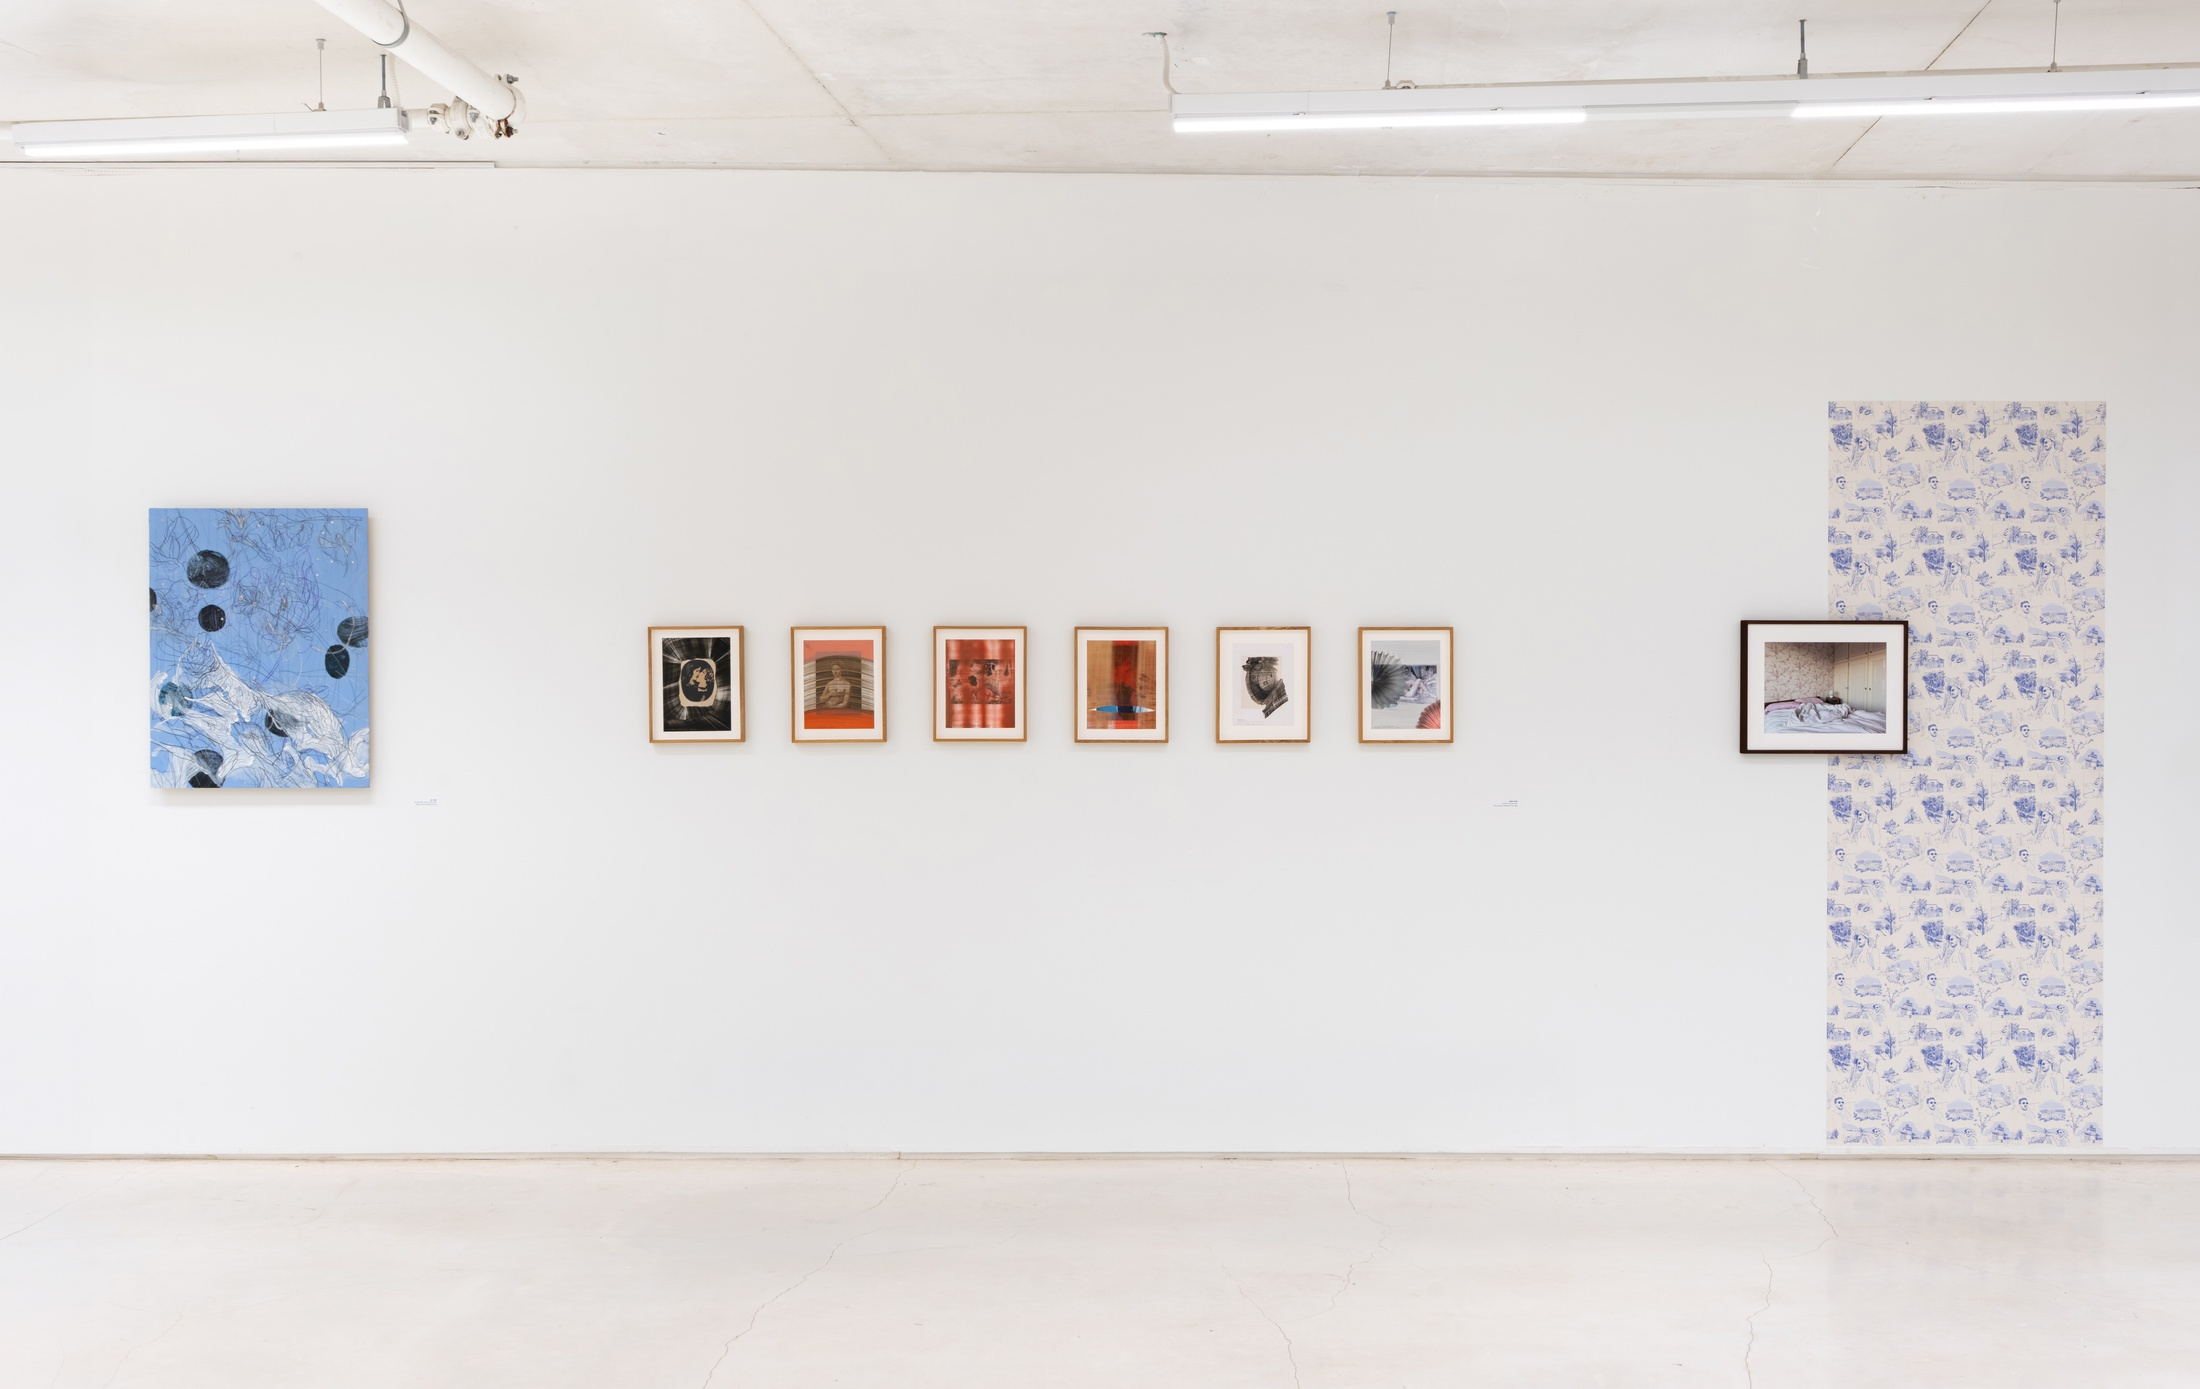
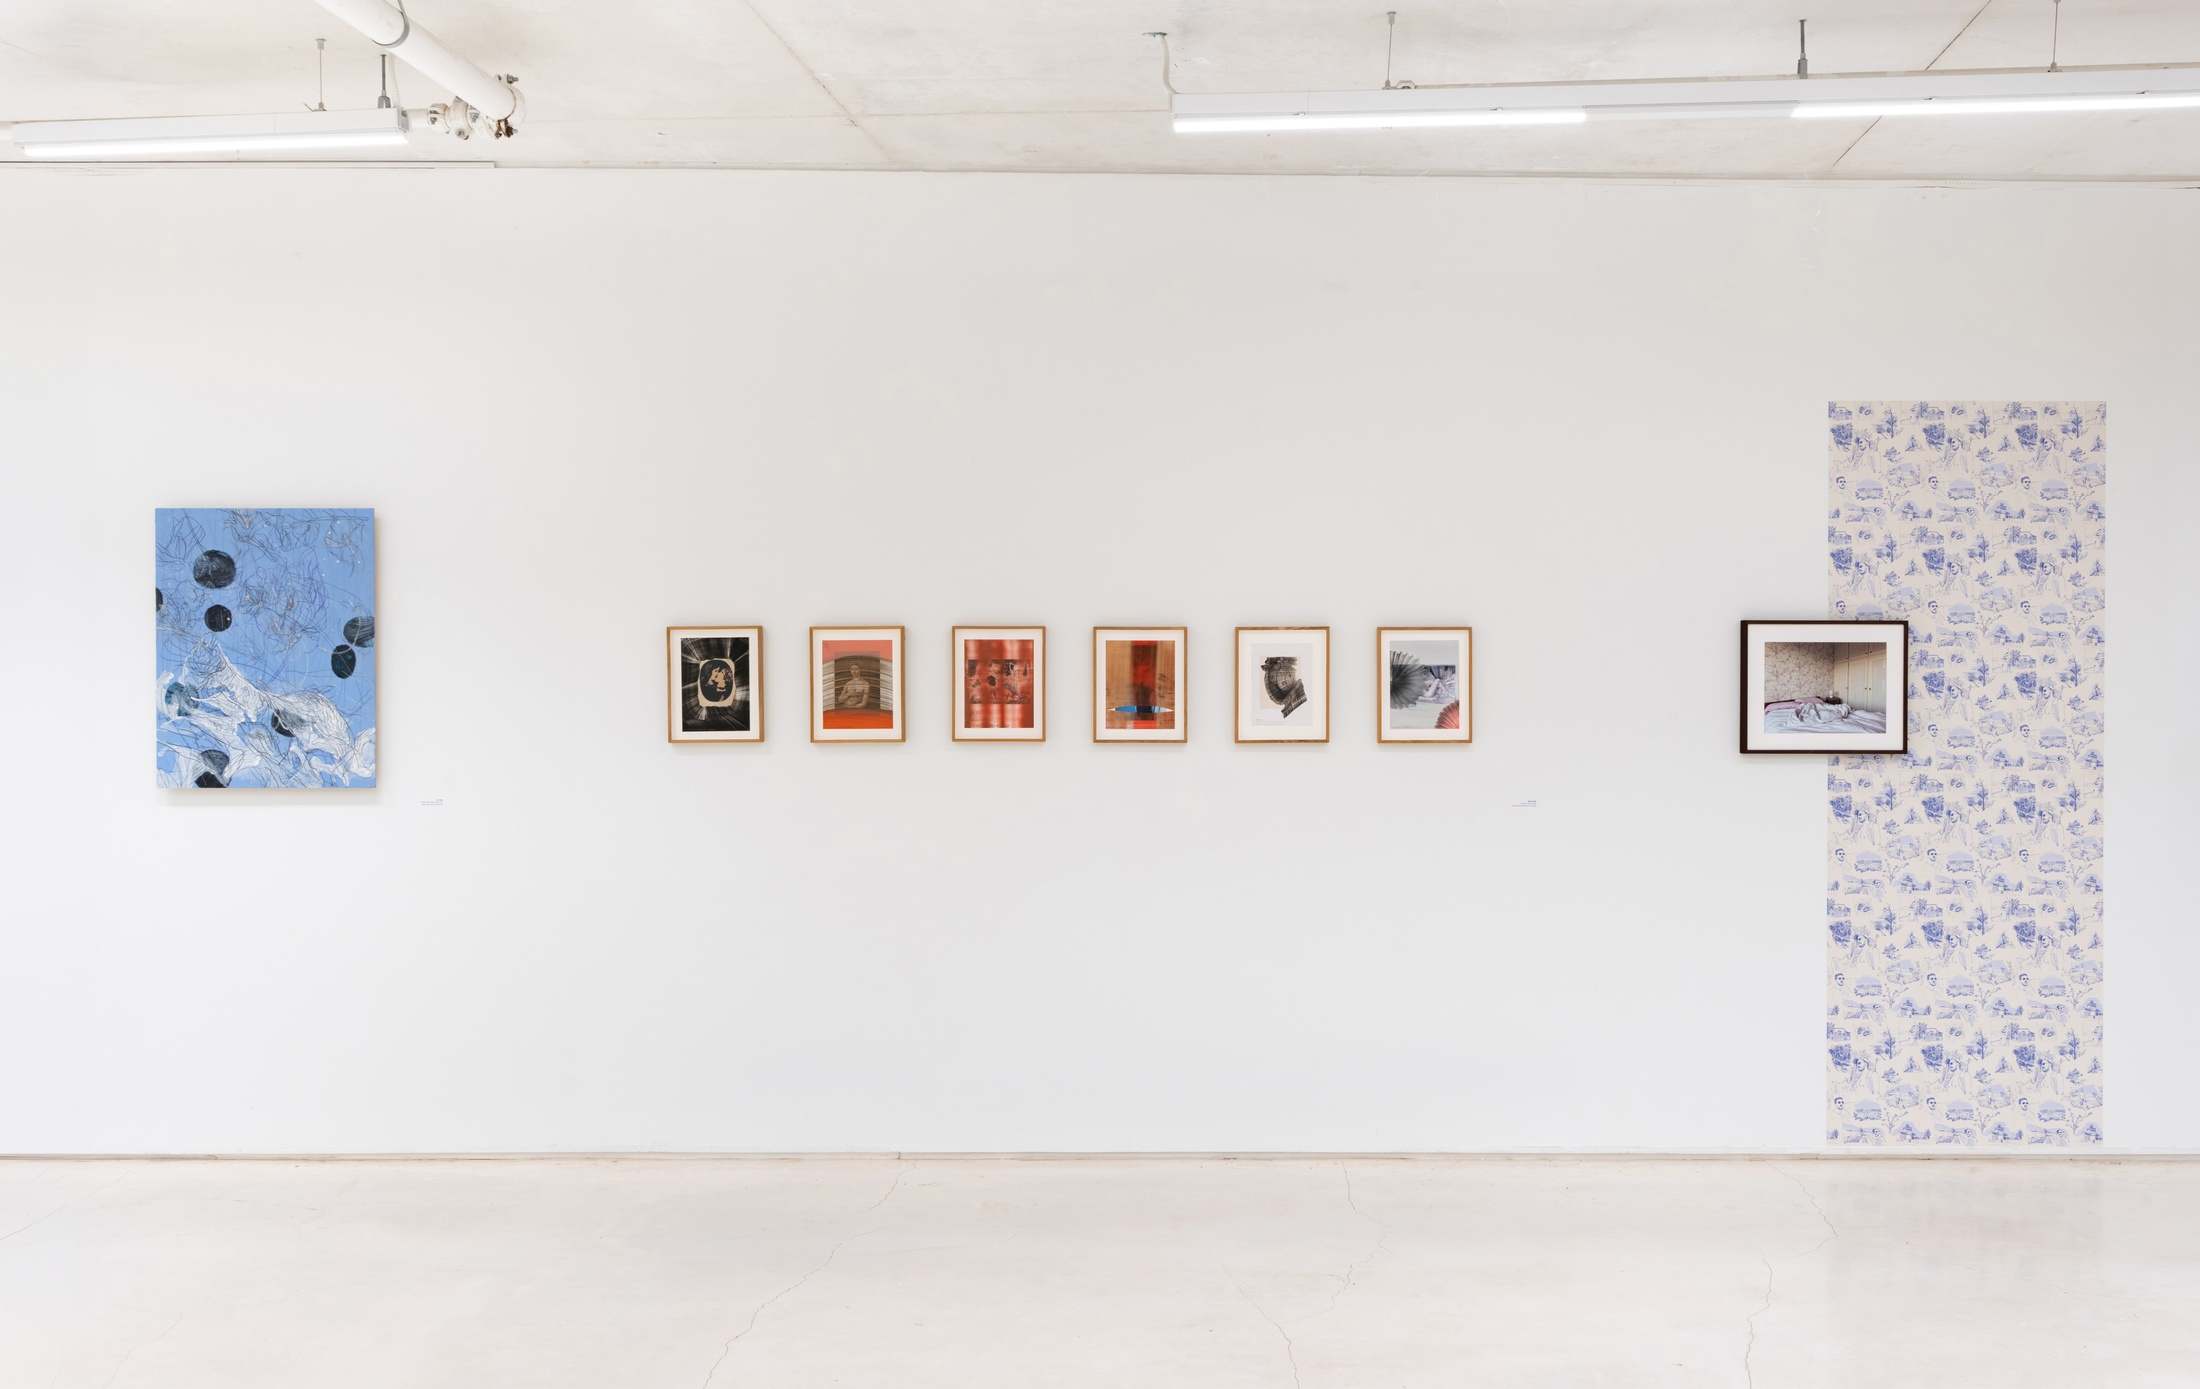
Remove IMG_0111 from Food Photography; replace two Deep Blue images; add 10 photos to MALE figures and 5 to FEMALE figures

Changed region(s): [[0.2782, 0.4334, 0.68, 0.5572], [0.0618, 0.3715, 0.1855, 0.5882]]

diff --git a/src/content/photo-projects/male-figures.md b/src/content/photo-projects/male-figures.md
@@ -40,3 +40,23 @@ order: -2
 ![](../../assets/photo-projects/male-figures/male-figures-17.jpg)
 
 ![](../../assets/photo-projects/male-figures/male-figures-18.jpg)
+
+![](../../assets/photo-projects/male-figures/male-figures-19.jpg)
+
+![](../../assets/photo-projects/male-figures/male-figures-20.jpg)
+
+![](../../assets/photo-projects/male-figures/male-figures-21.jpg)
+
+![](../../assets/photo-projects/male-figures/male-figures-22.jpg)
+
+![](../../assets/photo-projects/male-figures/male-figures-23.jpg)
+
+![](../../assets/photo-projects/male-figures/male-figures-24.jpg)
+
+![](../../assets/photo-projects/male-figures/male-figures-25.jpg)
+
+![](../../assets/photo-projects/male-figures/male-figures-26.jpg)
+
+![](../../assets/photo-projects/male-figures/male-figures-27.jpg)
+
+![](../../assets/photo-projects/male-figures/male-figures-28.jpg)

diff --git a/src/content/photo-projects/female-figures.md b/src/content/photo-projects/female-figures.md
@@ -68,3 +68,13 @@ order: -1
 ![](../../assets/photo-projects/female-figures/female-figures-31.jpg)
 
 ![](../../assets/photo-projects/female-figures/female-figures-32.jpg)
+
+![](../../assets/photo-projects/female-figures/female-figures-33.jpg)
+
+![](../../assets/photo-projects/female-figures/female-figures-34.jpg)
+
+![](../../assets/photo-projects/female-figures/female-figures-35.jpg)
+
+![](../../assets/photo-projects/female-figures/female-figures-36.jpg)
+
+![](../../assets/photo-projects/female-figures/female-figures-37.jpg)

diff --git a/src/content/photo-projects/food-photography.md b/src/content/photo-projects/food-photography.md
@@ -19,8 +19,6 @@ order: -0.5
 
 ![](../../assets/photo-projects/food-photography/food-photography-07.jpg)
 
-![](../../assets/photo-projects/food-photography/food-photography-08.jpg)
-
 ![](../../assets/photo-projects/food-photography/food-photography-09.jpg)
 
 ![](../../assets/photo-projects/food-photography/food-photography-10.jpg)
